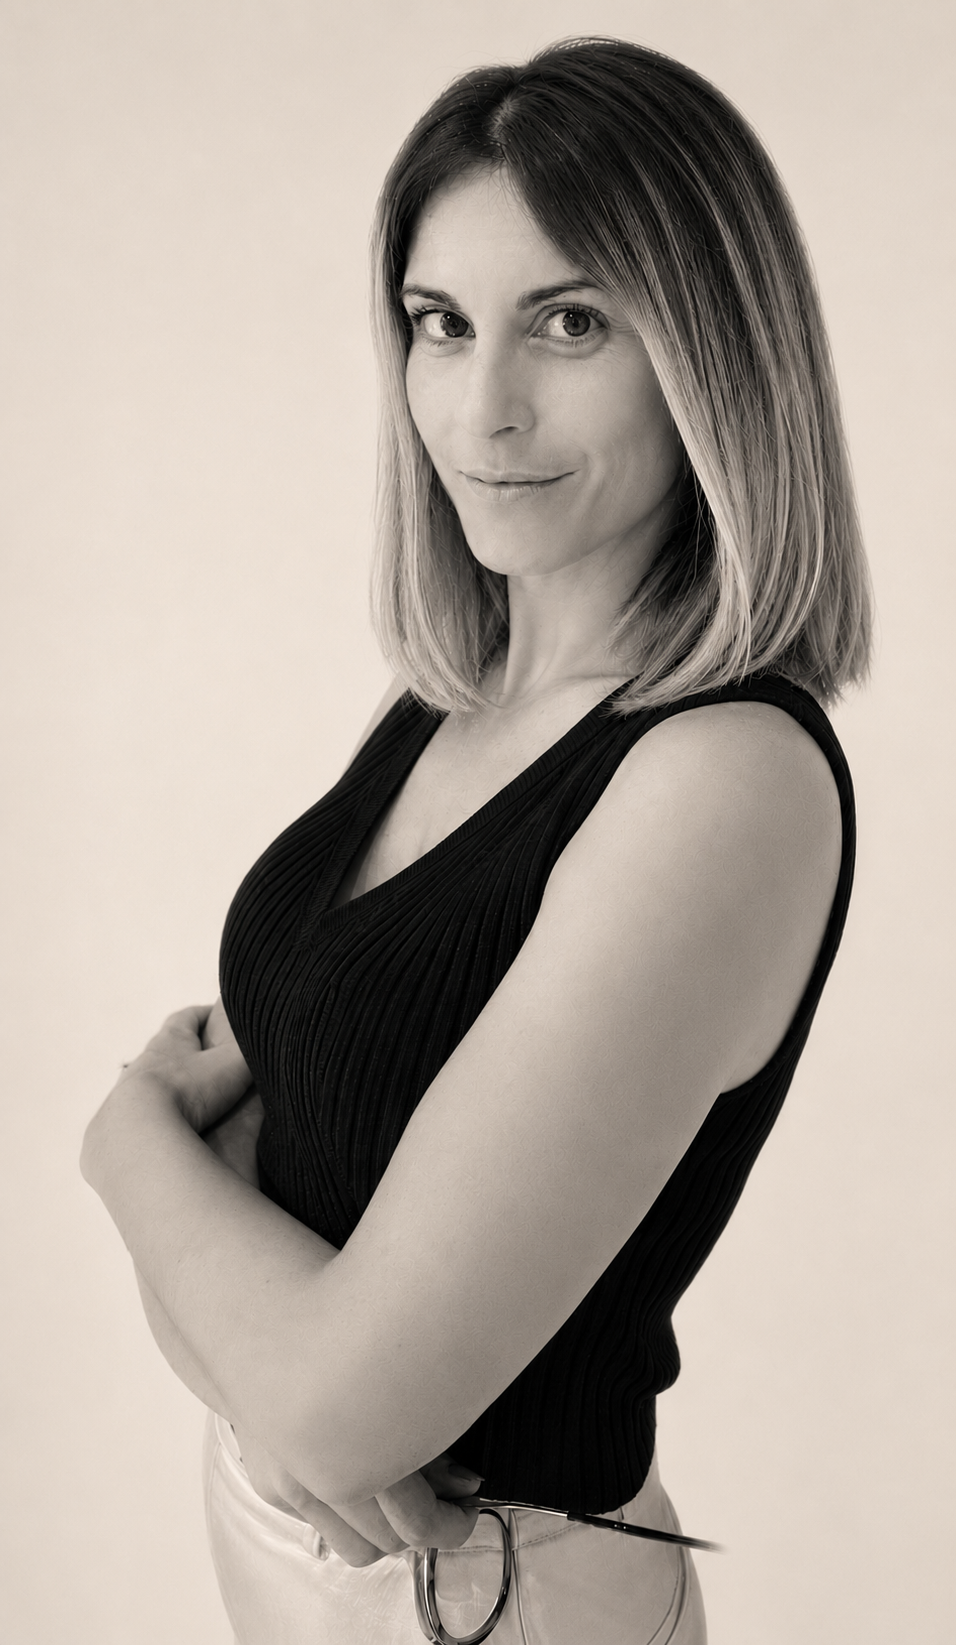
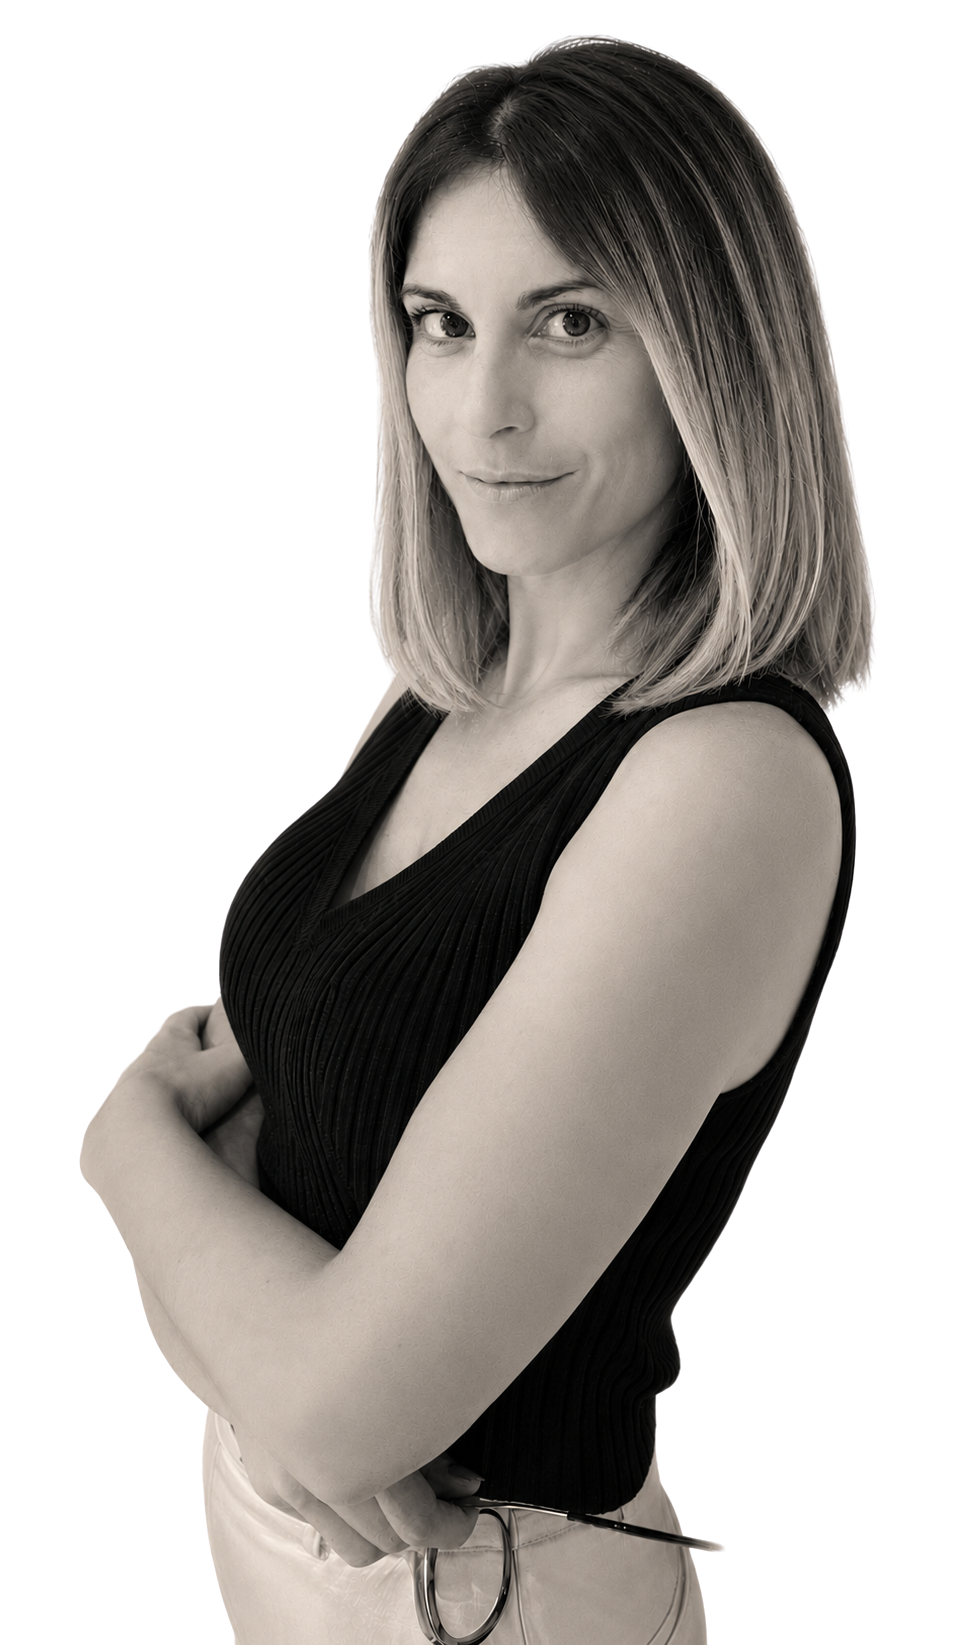
Refina seccion quien soy con PNG transparente

diff --git a/index.html b/index.html
@@ -1616,25 +1616,25 @@ img { max-width: 100%; display: block; }
   position: relative;
   min-height: 620px;
   display: flex;
-  align-items: center;
+  align-items: flex-end;
   justify-content: center;
 }
 
 .about-visual::before {
   content: "";
   position: absolute;
-  width: min(88%, 520px);
-  height: 520px;
-  top: 50%;
+  width: min(84%, 500px);
+  height: 500px;
+  top: 52%;
   bottom: auto;
   left: 50%;
   transform: translate(-50%, -50%);
   border-radius: 999px;
   background:
-    radial-gradient(circle at 50% 36%, rgba(255,250,242,.22), transparent 34%),
-    radial-gradient(circle at 50% 62%, rgba(111,125,69,.34), rgba(111,125,69,.10) 48%, transparent 72%);
-  filter: blur(10px);
-  opacity: .86;
+    radial-gradient(circle at 50% 38%, rgba(255,250,242,.16), transparent 36%),
+    radial-gradient(circle at 50% 64%, rgba(111,125,69,.22), rgba(111,125,69,.07) 50%, transparent 74%);
+  filter: blur(18px);
+  opacity: .68;
   z-index: 0;
 }
 
@@ -1654,21 +1654,18 @@ img { max-width: 100%; display: block; }
 .about-visual img {
   position: relative;
   z-index: 2;
-  width: clamp(320px, 30vw, 380px);
-  height: clamp(320px, 30vw, 380px);
+  width: auto;
+  height: clamp(690px, 54vw, 735px);
+  max-width: min(100%, 520px);
   max-height: none;
-  aspect-ratio: 1;
-  object-fit: cover;
-  object-position: center top;
-  border-radius: 50%;
-  border: 1px solid rgba(245,239,229,.42);
-  box-shadow:
-    0 32px 76px rgba(0,0,0,.36),
-    0 0 0 10px rgba(255,250,242,.035),
-    inset 0 1px 0 rgba(255,255,255,.12);
+  object-fit: contain;
+  object-position: center bottom;
+  border: 0;
+  border-radius: 0;
+  box-shadow: none;
   filter:
-    drop-shadow(0 34px 48px rgba(0,0,0,.42))
-    drop-shadow(0 0 42px rgba(223,231,201,.10));
+    drop-shadow(0 38px 44px rgba(0,0,0,.34))
+    drop-shadow(0 0 34px rgba(223,231,201,.08));
 }
 
 .about-tags {
@@ -2690,10 +2687,10 @@ footer {
     grid-row: 1 / span 2;
     min-height: 220px;
     order: initial;
-    align-items: center;
+    align-items: flex-end;
     justify-content: center;
     overflow: visible;
-    border-radius: 22px;
+    border-radius: 0;
   }
 
   .cta-actions {
@@ -2701,13 +2698,13 @@ footer {
   }
 
   .about-visual::before {
-    width: 150%;
-    height: 300px;
-    top: 50%;
+    width: 145%;
+    height: 260px;
+    top: 58%;
     bottom: auto;
     transform: translate(-50%, -50%);
-    opacity: .62;
-    filter: blur(22px);
+    opacity: .48;
+    filter: blur(24px);
   }
 
   .about-visual::after {
@@ -2717,13 +2714,12 @@ footer {
   }
 
   .about-visual img {
-    width: clamp(220px, 58vw, 260px);
-    height: clamp(220px, 58vw, 260px);
+    width: auto;
+    height: clamp(245px, 64vw, 295px);
+    max-width: 100%;
     max-height: none;
-    object-fit: cover;
-    object-position: center top;
-    border-radius: 50%;
-    clip-path: none;
+    object-fit: contain;
+    object-position: center bottom;
   }
 
   .section { padding: 82px 0; }